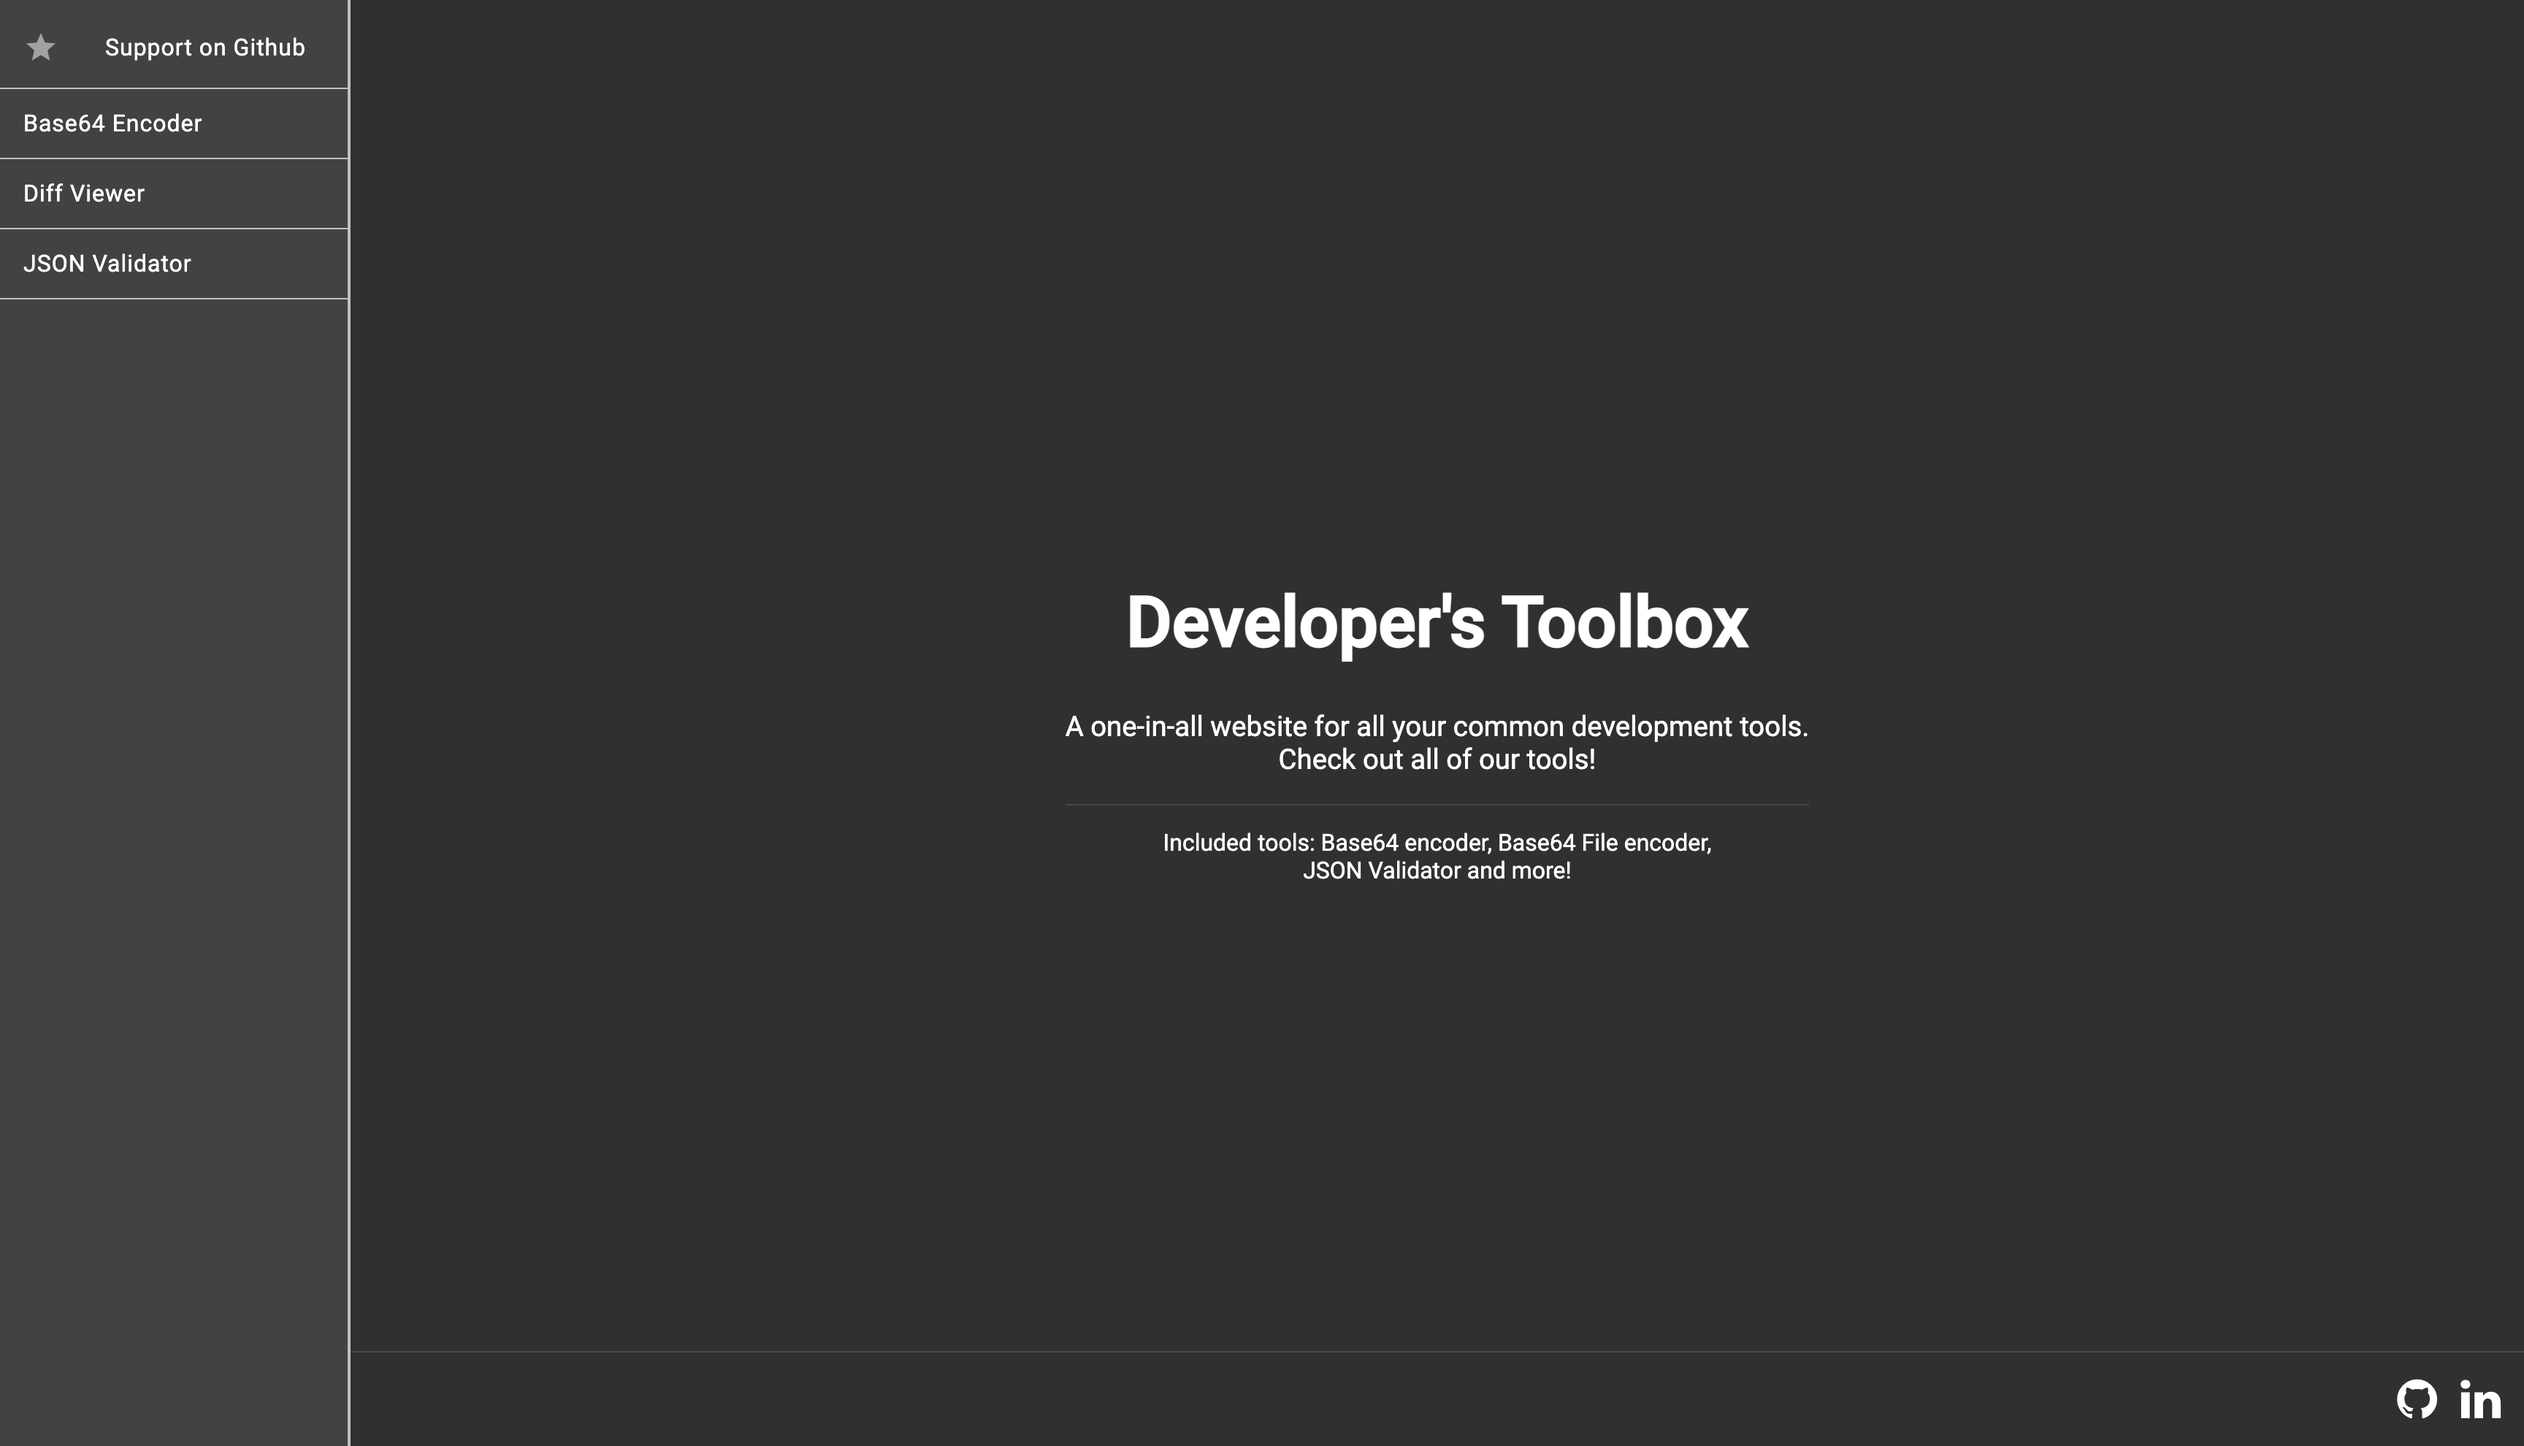
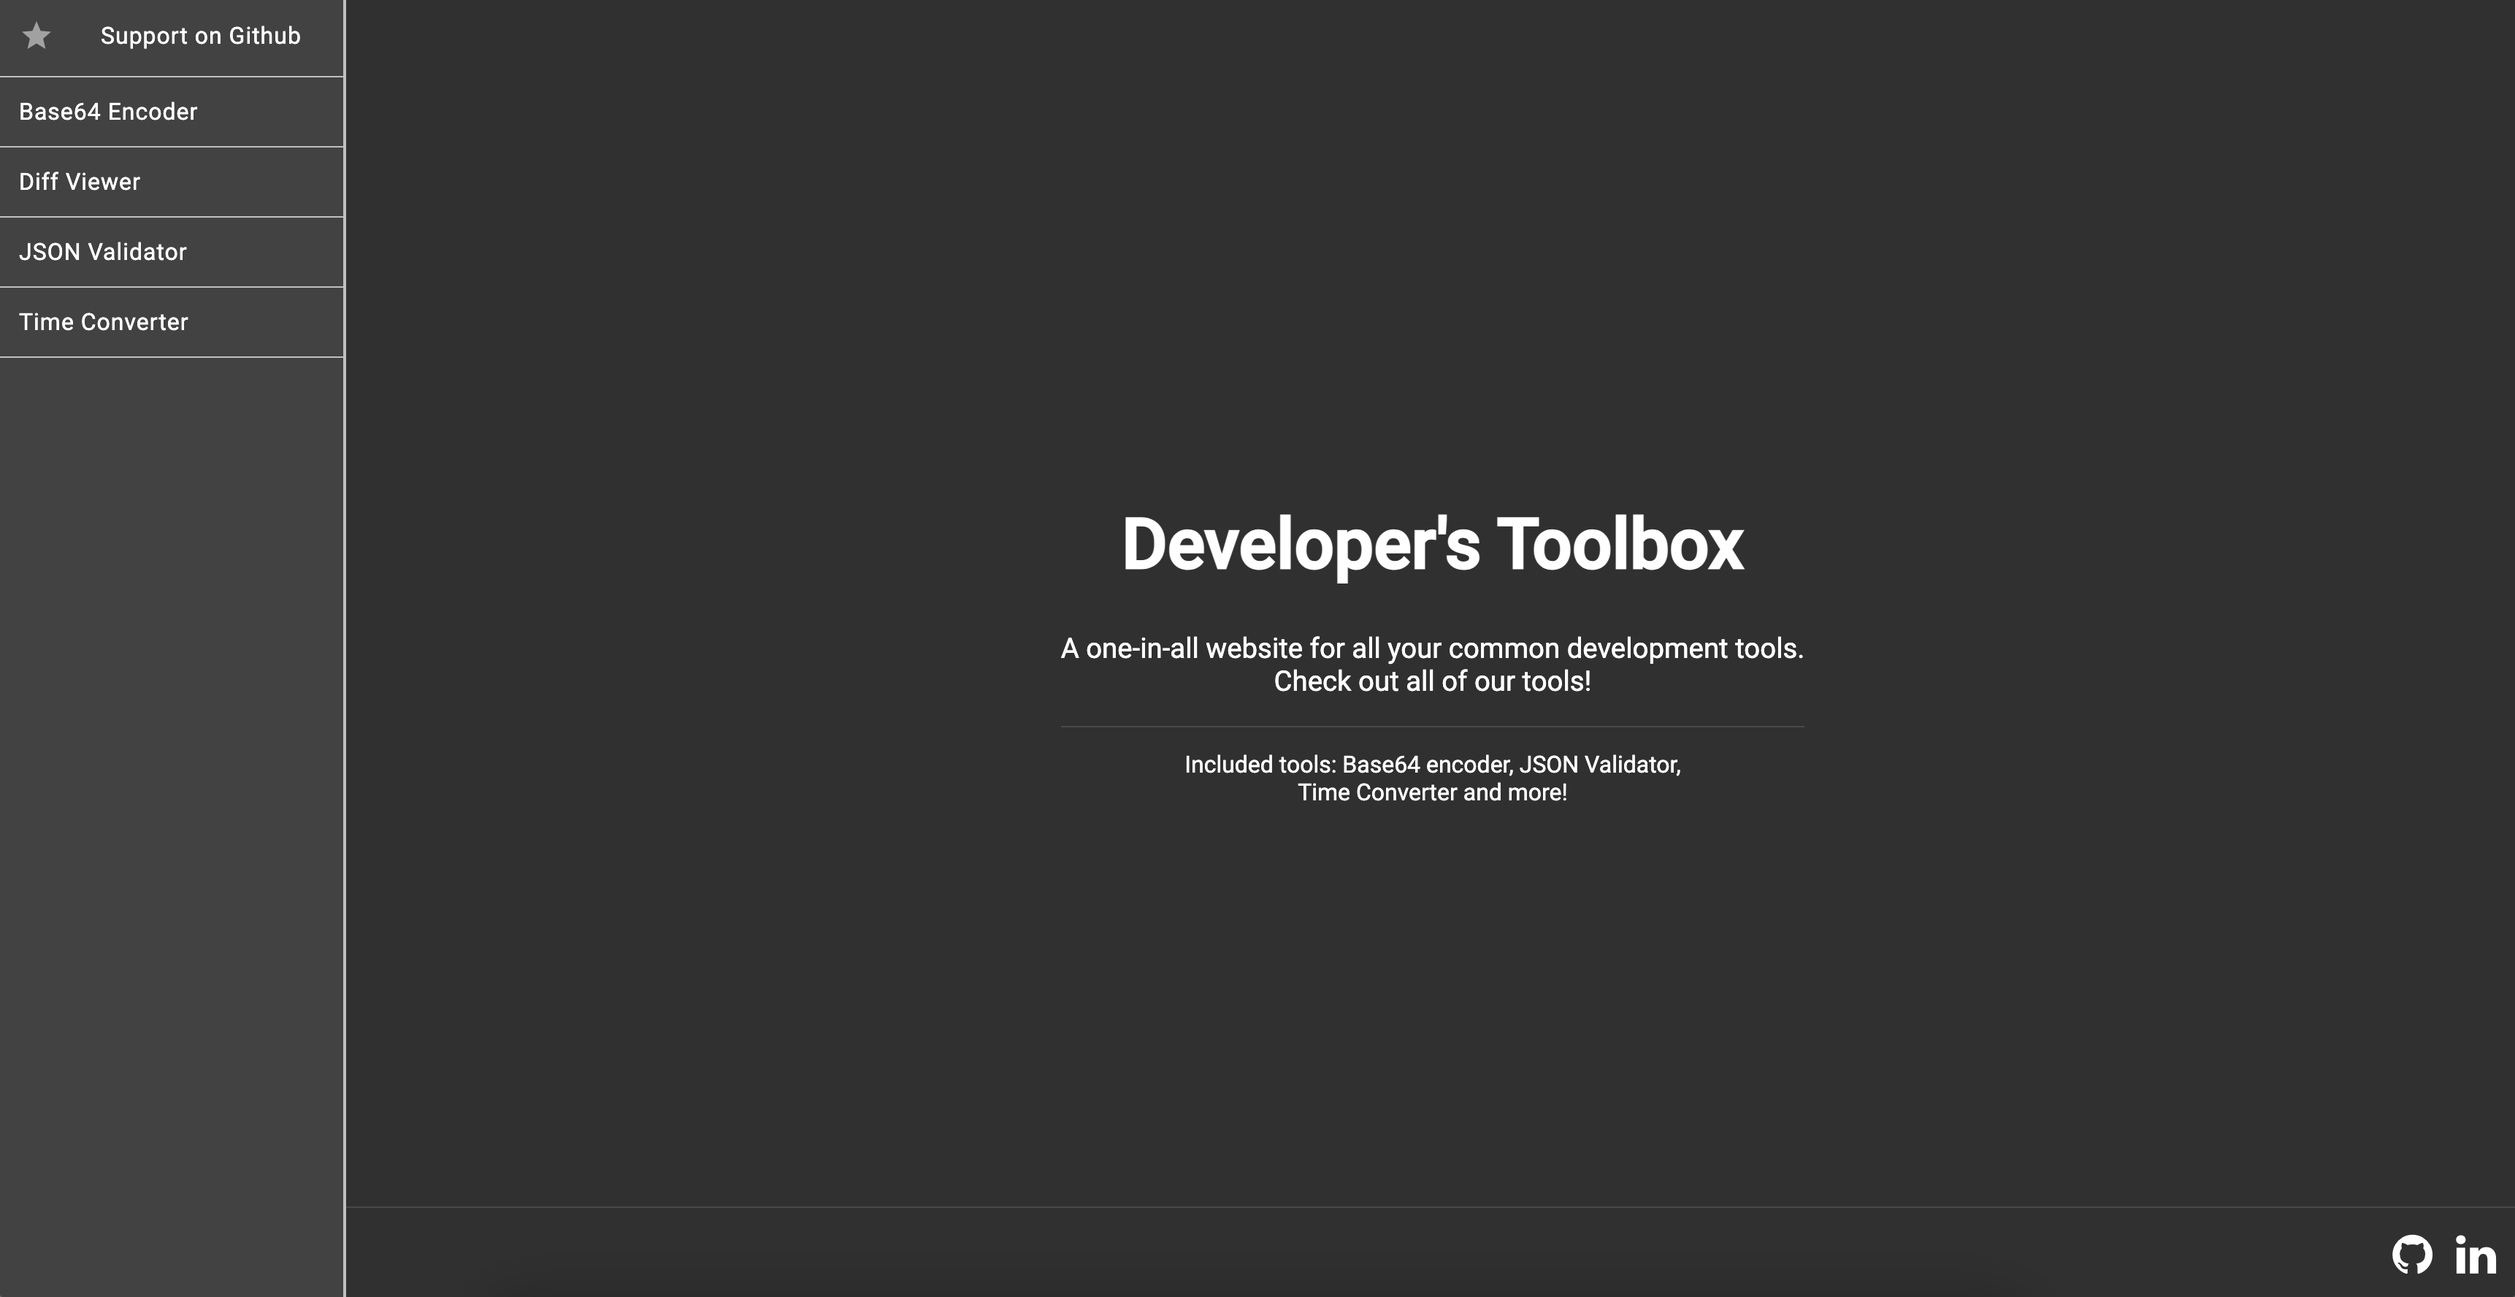
Updated app screenshot for readme file

diff --git a/src/app/component/home/home.component.html b/src/app/component/home/home.component.html
@@ -6,8 +6,8 @@
   </p>
   <mat-divider></mat-divider>
   <p>
-    Included tools: Base64 encoder, Base64 File encoder,<br>
-    JSON Validator and more!
+    Included tools: Base64 encoder, JSON Validator,<br>
+    Time Converter and more!
   </p>
 </div>
 
